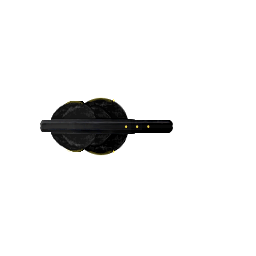
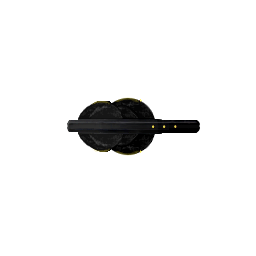
Merge pull request #2270 from melkorium/master
Patch 15.7.26

Pull request: Patch 15.7.26

Changed region(s): [[0.1562, 0.375, 0.7812, 0.625]]

diff --git a/source/public/client/ew.js b/source/public/client/ew.js
@@ -570,11 +570,24 @@ window.ew = {
         if (target.faction == "Torvalus Speculators") {
             if (target.flight) return 0; //Torvalus fighters do not get Jammer effect.
             var shadingField = shipManager.systems.getSystemByName(target, "ShadingField");
-            if (!shipManager.systems.isDestroyed(target, shadingField) && !shipManager.power.isOffline(target, shadingField)) {
-                return 1; //Not destroyed or offline
-            } else {
-                return 0; //Destroyed or offline
-            }
+            if (shadingField){
+                if(!shipManager.systems.isDestroyed(target, shadingField) && !shipManager.power.isOffline(target, shadingField)) {
+                    return 1; //Not destroyed or offline
+                } else {
+                    return 0; //Destroyed or offline
+                }
+            }else{
+                var alphaShadingField = shipManager.systems.getSystemByName(target, "AlphaShadingField");
+                if (alphaShadingField){
+                    if(shooter.factionAge <= 2 && !shipManager.systems.isDestroyed(target, alphaShadingField) && !shipManager.power.isOffline(target, alphaShadingField)) {
+                        return 1; //Not destroyed or offline
+                    } else {
+                        return 0; //Destroyed or offline
+                    }                    
+                }else{
+                    return 0;
+                }                
+            }    
         }
 
         if (shooter.faction != target.faction) { //in-faction units ignore jammer (but not stealth!)

diff --git a/source/public/client/model/system/defensive.js b/source/public/client/model/system/defensive.js
@@ -81,6 +81,13 @@ EMShield.prototype.initializationUpdate = function () {
 	return this;
 };
 
+var AlphaShadingField = function AlphaShadingField(json, ship) {
+	EMShield.call(this, json, ship);
+	this.defensiveType = "Shield";
+};
+AlphaShadingField.prototype = Object.create(EMShield.prototype);
+AlphaShadingField.prototype.constructor = AlphaShadingField;
+
 var GraviticShield = function GraviticShield(json, ship) {
 	Shield.call(this, json, ship);
 	this.defensiveType = "Shield";

diff --git a/source/server/model/systems/baseSystems.php b/source/server/model/systems/baseSystems.php
@@ -9262,6 +9262,48 @@ class MindriderHangar extends ShipSystem{
 
 	} //endof ShadingField
 
+//Early version of the Torvalus Shading Field, actually just a glorified EM Shield, with Jammer effect against Younger Races.
+class AlphaShadingField extends EMShield implements SpecialAbility, DefensiveSystem{
+    public $name = "AlphaShadingField";
+    public $displayName = "Alpha Shading Field";
+    public $iconPath = "ShadingField.png";
+    public $canOffLine = true;
+	public $specialAbilities = array("Jammer");			
+
+    function __construct($armour, $maxhealth, $powerReq, $shieldFactor, $startArc, $endArc){
+        // shieldfactor is handled as output.
+        parent::__construct($armour, $maxhealth, $powerReq, $shieldFactor, $startArc, $endArc);
+    }
+
+	//args for Jammer ability are array("shooter", "target")
+    public function getSpecialAbilityValue($args)
+    {
+        if (!isset($args["shooter"]) || !isset($args["target"]))
+            throw new InvalidArgumentException("Missing arguments for Jammer getSpecialAbilityValue");
+        
+        $shooter = $args["shooter"];
+        $target = $args["target"];
+        
+        //if ($shooter->faction === $target->faction) return 0; //same-faction units ignore Jammer
+		
+        if (! ($shooter instanceof BaseShip) || ! ($target instanceof BaseShip)) 
+            throw new InvalidArgumentException("Wrong argument type for Jammer getSpecialAbilityValue");
+        		
+		$jammerValue = 1;
+		
+		if ($jammerValue > 0){ //else no point
+			//Advanced Sensors negate Jammer, Improved Sensors halve Jammer
+			if ($shooter->hasSpecialAbility("AdvancedSensors")) {
+				$jammerValue = 0; //negated
+			}
+		} else {
+			$jammerValue = 0; //never negative
+		}
+			
+        return $jammerValue;
+    }
+
+}	
 
 class MineControllerDEW extends ShipSystem{
     public $name = "MineControllerDEW";

diff --git a/source/public/games.php b/source/public/games.php
@@ -135,11 +135,12 @@ $defaultGameName = ucfirst($playerName) . "'s Game";
       <h3>Latest Updates — July 2026</h3>
       <ul class="updates-list">
         <!--<li style="color: #cc0000ff;"><strong>Merry Christmas from Fiery Void!</strong></li>-->    
-        <li><strong>HK Control Nodes & Jamming</strong> - ELINT vessels can try to jam Orieni Hunker-Kilers, and drones which don't have a control node will become 'Uncontrolled'.</li>      
-        <li><strong>Shadow Fighter Bomb</strong> - Shadow fighters are now purchased as enhancements, and can launch and be re-absorbed by their carrier ships.</li> 
-        <li><strong>UI Improvements</strong> - Landscape mode apperance improved on smaller screens, Self Repair menu is now drggable and other small improvements.</li>                                                  
-        <li><strong>Fleet Selection</strong> -  The ‘Show Custom’ checkbox is now ticked by default in Fleet Builder screens, and games where Custom Factions are marked as ‘Allowed’.</li>                                                                                       
-        <li><strong>New Critical Effect</strong> - Quad and Twin Arrays can be affected by the 'Gun Lost' critical.</li>  
+        <li><strong>Kirishiac Lords</strong> - A new Ancient faction has been added!</li>      
+        <li><strong>Civilians and Raiders</strong> - A plethora of official and custom Civilian ships added for a huge number of factions (thanks to Lunara).</li> 
+        <li><strong>Hangar Refinements</strong> - Hangars allowance have increased specificity and can split launch shuttles.</li>   
+        <li><strong>Sh'lassan and Mentaban</strong> - Added these two Small Race factions which utilise exported EA hulls (thanks to Lunara).</li>                                                        
+        <li><strong>Minor Thought Pulsar </strong> - New menu added to give full control over spending unused thrust</li>                                                                                       
+        <li><strong>Team Colours</strong> - Improved team colours for games which feature more than two teams.</li>        
         <li><strong>General Fixes</strong> - Many other small bug fixes/updates. Thanks for the reports!</li>           
         <!--<li><strong>6 Jun</strong> - Overlay colors, deployment zone tweaks, UI fixes. Pulsar mine fixed, tooltip/text readability improved.</li>-->
       </ul>

diff --git a/source/autoload.php b/source/autoload.php
@@ -3520,6 +3520,7 @@ spl_autoload_register(
                 //Torvalus
 				'darkknife' => '/server/model/ships/torvalus/DarkKnife.php',
 				'blackrapier' => '/server/model/ships/torvalus/BlackRapier.php',
+				'blackdagger' => '/server/model/ships/torvalus/BlackDagger.php',                
 				'shroudedsaber' => '/server/model/ships/torvalus/ShroudedSaber.php',
 				'veiledsaber' => '/server/model/ships/torvalus/VeiledSaber.php',
 				'falchion' => '/server/model/ships/torvalus/Falchion.php',                                                   
@@ -3531,6 +3532,7 @@ spl_autoload_register(
 				'volleylaser' => '/server/model/weapons/pulse.php',
 				'shademodulator' => '/server/model/weapons/supportWeapons.php',                 
                 'shadingfield' => '/server/model/systems/baseSystems.php',
+                'alphashadingfield' => '/server/model/systems/baseSystems.php',                
                 'transversedrive' => '/server/model/weapons/supportWeapons.php',                
                 
                 'increasedrecharge1' => '/server/model/cricialClasses.php',

diff --git a/source/public/factions-tiers.php b/source/public/factions-tiers.php
@@ -359,7 +359,7 @@ if (!isset($_SESSION["user"]) || $_SESSION["user"] == false) {
             <li>The TFS has three unique hulls including the Blockade Runner, System Monitor, and Freedom Base. Beyond this, the TFS will utilize any generic raider unit.</li>
             <li>The majority of TFS fighters are Delta-Vs, but they can field Armed Shuttles, Double-Vs, Goriths, Star Snakes, and Koists. The TFS only use Drazi Dudroma defense satellites.</li>   
         </ul>
-<h5>Torata Privateers</h5>
+<h5>Torata Privateers (Custom)</h5>
             <ul>
 <li>Based on the units created by Jason Stadnyk on The Great Machine. These Torata forces explored Markab and Vree space in search for resources and technologies.</li>
             <li>The Uala's low population makes the Torata Privateers relatively uncommon and with very few units. </li>